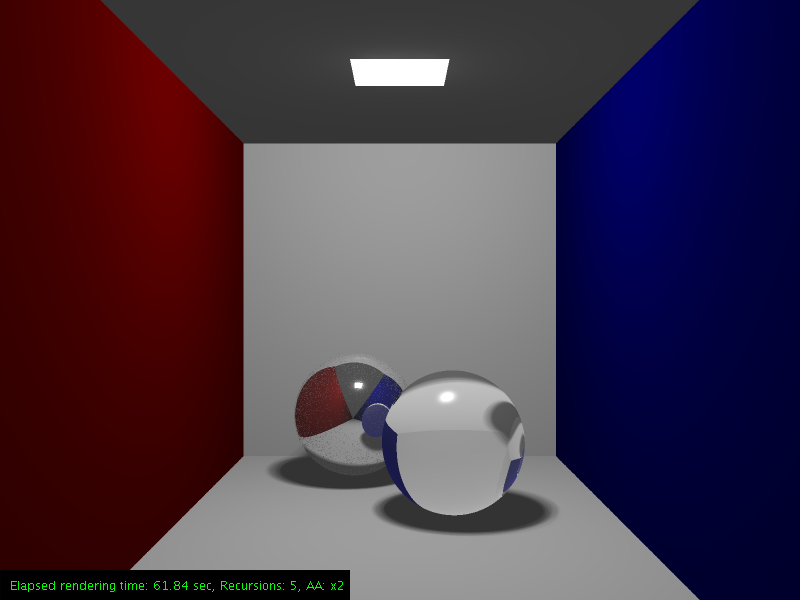
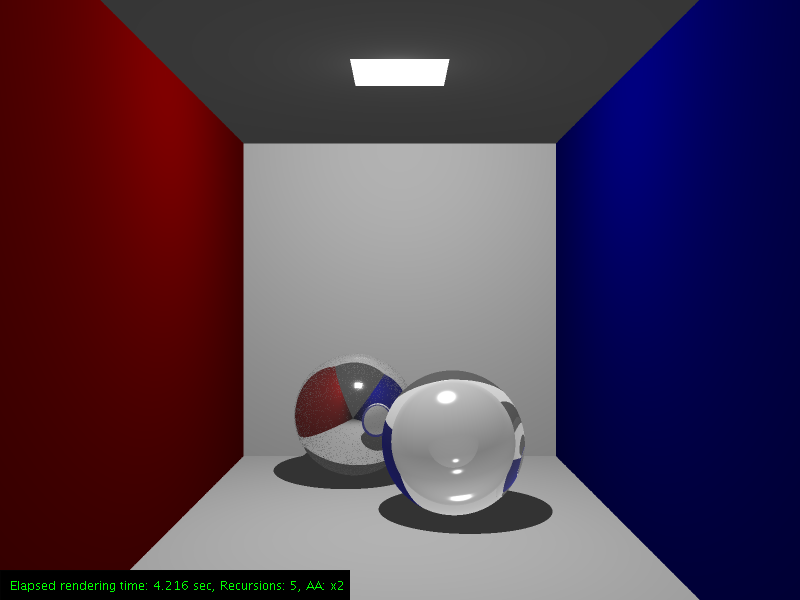
Improve transmission and test with inner AIR sphere

diff --git a/VCG_Raytracer/src/raytracer/Intersection.java b/VCG_Raytracer/src/raytracer/Intersection.java
@@ -40,6 +40,9 @@ public class Intersection {
         Vec3 inRay = mInRay.getDirection().negate().normalize();
         mNormal = mNormal.normalize();
 
+        float n1 = mInRay.getCurrentMaterial();
+        float n2 = mShape.getMaterial().getFractionCoeff();
+
         boolean rayIsEnteringMedium = mInRay.isEntering();
 
         float normDotIn = mNormal.scalar(inRay);
@@ -48,34 +51,36 @@ public class Intersection {
             rayIsEnteringMedium = false;
         }
 
-        float n;
+        float n = (rayIsEnteringMedium == true) ? calculateMaterialCoeff(n1, n2) : calculateMaterialCoeff(n2, n1);
+        rayIsEnteringMedium = !rayIsEnteringMedium;
 
-        if (rayIsEnteringMedium == false) {
-            Log.error(this, "coeff switch");
-            n = mShape.getSwitchedMaterialCoeff();
-            rayIsEnteringMedium = true;
-        } else {
-            n = mShape.getMaterial().getFractionCoeff();
-            rayIsEnteringMedium = false;
-        }
+        float squareCoeff = n * n;
+        float cosBeta = squareCoeff * (1 - normDotIn * normDotIn);
+        cosBeta = 1 - cosBeta;
 
-        float sinBeta2 = n * n;
-        float cosBetaDet = 1f - sinBeta2;
-
-        if(cosBetaDet > 0) {
-            float cosBeta = inRay.scalar(mNormal);
-            float sinSqrBeta = sinBeta2 * (1 - cosBeta * cosBeta);
-
-            float a = n * cosBeta;
-            float b = (float) Math.sqrt(1 - sinSqrBeta);
-
-            Vec3 out = inRay.negate().multScalar(n).add(mNormal.multScalar(a - b));
-            return new Ray(mIntersectionPoint, out, Float.MAX_VALUE, rayIsEnteringMedium);
+        if(cosBeta > 0) {
+            Vec3 bVec = mNormal.multScalar((float) Math.sqrt(cosBeta));
+            Vec3 aVec = mNormal.multScalar(normDotIn);
+            aVec = aVec.sub(inRay);
+            aVec = aVec.multScalar(n);
+            Vec3 out = aVec.sub(bVec);
+            return new Ray(mIntersectionPoint, out, Float.MAX_VALUE, rayIsEnteringMedium, n2);
         }
         // Total internal reflection
         else{
+            //Log.error(this, "Total internal reflection");
             return calculateReflectionRay(mInRay.getDirection());
         }
+    }
+
+    protected float calculateMaterialCoeff(float n1, float n2){
+        if (n2 != 0) {
+            return n1 /n2 ;
+        }
+        else{
+            return 0;
+        }
+
     }
 
     public void setHit(boolean mHit) {

diff --git a/VCG_Raytracer/src/Main.java b/VCG_Raytracer/src/Main.java
@@ -86,7 +86,7 @@ public class Main {
 
     static int RECURSIONS = 5;
     static int ANTI_ALIASING = Raytracer.ANTI_ALIASING_LOW; //Raytracer.ANTI_ALIASING_MEDIUM;
-    static boolean USE_SOFT_SHADOWS = true;
+    static boolean USE_SOFT_SHADOWS = false;
 
     /** DEBUG **/
 
@@ -164,18 +164,17 @@ public class Main {
 
     private static void setupSpheres(Scene renderScene) {
         float sphereRadius = 1f;
-        float smallSphereRadius = 0.3f;
+        float smallSphereRadius = 0.6f;
 
         // Materials: AmbientMaterial Color, Diffuse Coeeff, Specular Coeff, Shininess, Material
         Material sphereMaterial1 = new PhongMaterial(RgbColor.GRAY, RgbColor.DARK_GRAY, RgbColor.WHITE, PhongMaterial.VERY_SHINY, Material.MOST_REFLECTION, Material.NO_TRANSMISSION, 1);
         Material sphereMaterial2 = new PhongMaterial(RgbColor.GRAY, RgbColor.DARK_GRAY, RgbColor.WHITE, PhongMaterial.VERY_SHINY, Material.NO_REFLECTION, Material.DIAMOND, 1);
 
-        Material sphereMaterial3 = new PhongMaterial(RgbColor.DARK_GREEN, RgbColor.GREEN, RgbColor.WHITE, PhongMaterial.SHINY, Material.NO_REFLECTION, Material.NO_TRANSMISSION, 1);
+        Material sphereMaterial3 = new PhongMaterial(RgbColor.GRAY, RgbColor.DARK_GRAY, RgbColor.WHITE, PhongMaterial.VERY_SHINY, Material.NO_REFLECTION, Material.AIR, 1);
 
         renderScene.createSphere(new Vec3(-BOX_DIMENSION /4f, -BOX_DIMENSION + 1.1f, -BOX_DIMENSION /3f+3), sphereMaterial1, sphereRadius);
         renderScene.createSphere(new Vec3(BOX_DIMENSION/4f, -BOX_DIMENSION + sphereRadius, BOX_DIMENSION /3f+3), sphereMaterial2, sphereRadius);
-
-        renderScene.createSphere(new Vec3(BOX_DIMENSION/2f, -BOX_DIMENSION + smallSphereRadius, BOX_DIMENSION), sphereMaterial3, smallSphereRadius);
+        renderScene.createSphere(new Vec3(BOX_DIMENSION/4f, -BOX_DIMENSION + sphereRadius, BOX_DIMENSION /3f+3), sphereMaterial3, smallSphereRadius);
     }
 
     private static void setupLightShapes(Scene renderScene) {

diff --git a/VCG_Raytracer/src/raytracer/Ray.java b/VCG_Raytracer/src/raytracer/Ray.java
@@ -1,5 +1,6 @@
 package raytracer;
 
+import scene.materials.Material;
 import utils.algebra.Vec3;
 
 public class Ray {
@@ -10,8 +11,14 @@ public class Ray {
     private float mDistance;
     private boolean mIsEntering;
 
+    private float mCurrentMaterialCoeff;
+
     public Ray(Vec3 startPoint, Vec3 direction, float param, boolean enteringMode){
         init(startPoint, direction, param, enteringMode);
+    }
+
+    public Ray(Vec3 startPoint, Vec3 direction, float param, boolean enteringMode, float materialCoeff){
+        init(startPoint, direction, param, enteringMode, materialCoeff);
     }
 
     public Ray(Vec3 startPoint, Vec3 direction, float param){
@@ -24,7 +31,7 @@ public class Ray {
         mDirection = endPoint.sub(startPoint);
         mDistance = mDirection.length();
         mDirection = mDirection.normalize();
-        mIsEntering = false;
+        mIsEntering = true;
     }
 
     private void init(Vec3 startPoint, Vec3 direction, float param, boolean enteringMode){
@@ -33,6 +40,12 @@ public class Ray {
         mDistance = param;
         mEndPoint = mDirection.multScalar(param).add(mStartPoint);
         mIsEntering = enteringMode;
+        mCurrentMaterialCoeff = Material.AIR;
+    }
+
+    private void init(Vec3 startPoint, Vec3 direction, float param, boolean enteringMode, float materialCoeff){
+        init(startPoint, direction, param, enteringMode);
+        mCurrentMaterialCoeff = materialCoeff;
     }
 
     public Vec3 getStartPoint() {
@@ -51,10 +64,18 @@ public class Ray {
         return mDistance;
     }
 
+    public float getCurrentMaterial() {
+        return mCurrentMaterialCoeff;
+    }
+
     public boolean isEntering() { return mIsEntering; }
 
     public void setEnteringMode(boolean isEntering) {
         mIsEntering = isEntering;
+    }
+
+    public void setCurrentMaterial(float mCurrentMaterial) {
+        this.mCurrentMaterialCoeff = mCurrentMaterial;
     }
 
     @Override

diff --git a/VCG_Raytracer/src/raytracer/Raytracer.java b/VCG_Raytracer/src/raytracer/Raytracer.java
@@ -114,7 +114,7 @@ public class Raytracer {
 
         if( intersection.isHit() ){
             // Stop! Enter, if the last recursion level is reached, but it is not the final ray to the light
-            if( recursionCounter == 0) {
+            if( recursionCounter <= 0) {
                 // If recursion is done and it is not the last ray then trace the ray to all lights to see if any obstacle exists
                 return outColor;
             }

diff --git a/VCG_Raytracer/src/scene/materials/Material.java b/VCG_Raytracer/src/scene/materials/Material.java
@@ -61,13 +61,6 @@ public abstract class Material {
         mType = type;
     }
 
-    protected void calculateMaterialCoeff(float fractionCoeff){
-        if (fractionCoeff != 0) {
-            this.switchedFractionCoeff = fractionCoeff / Material.AIR ;
-            this.fractionCoeff = Material.AIR / fractionCoeff;
-        }
-    }
-
     public boolean isType(String type){
         return mType.equals(type);
     }

diff --git a/VCG_Raytracer/src/scene/materials/PhongMaterial.java b/VCG_Raytracer/src/scene/materials/PhongMaterial.java
@@ -15,8 +15,7 @@ public class PhongMaterial extends Material {
 
         this.reflectionCoeff = reflectivity;
         this.transparency = transparency;
-
-        this.calculateMaterialCoeff(fractionCoeff);
+        this.fractionCoeff = fractionCoeff;
     }
 
     @Override
